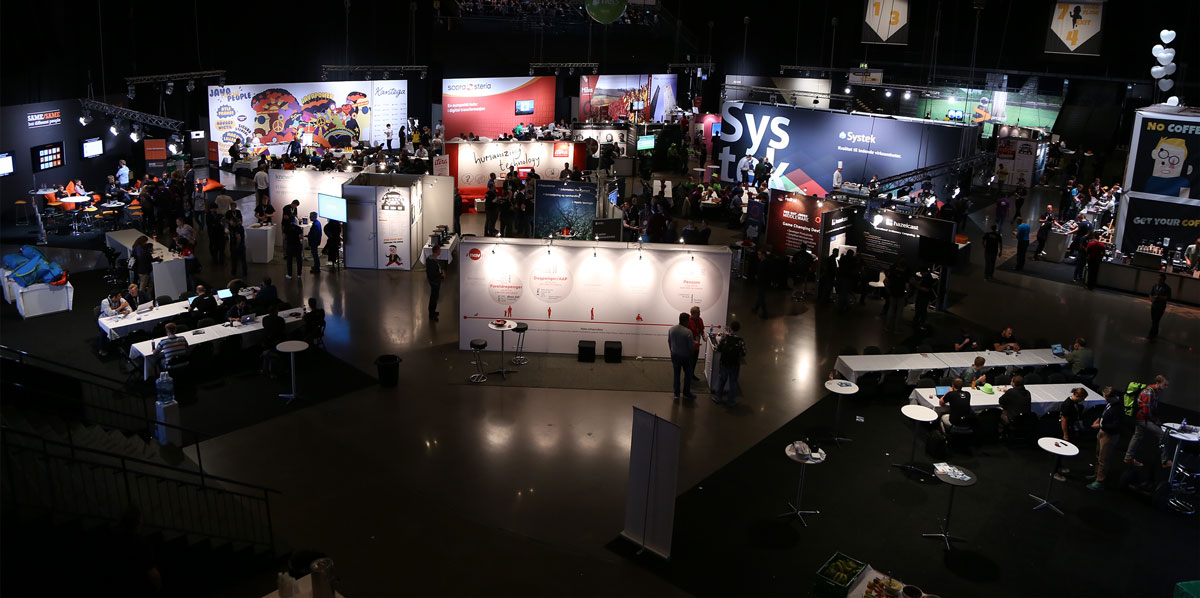
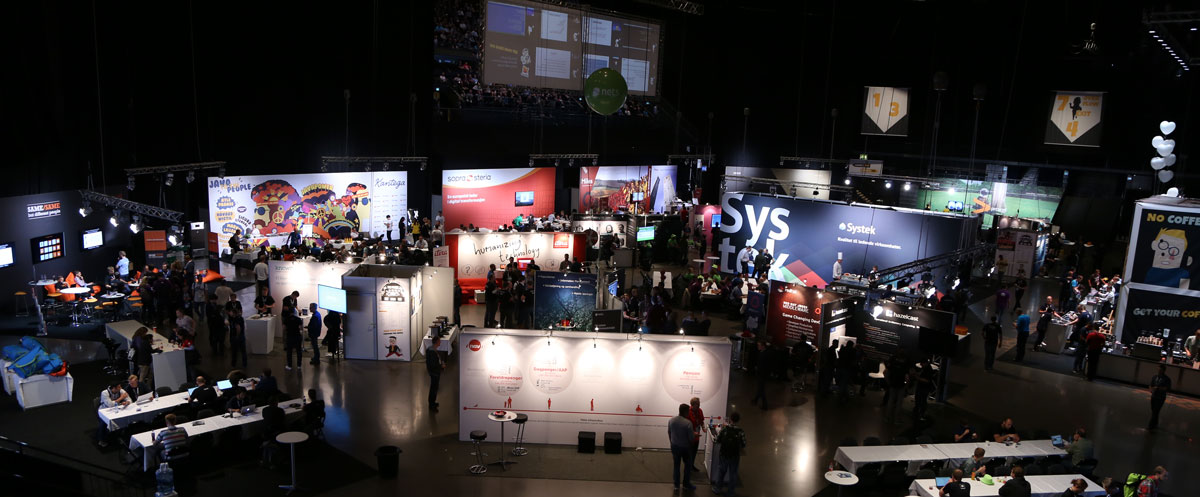
Use a bit more cheery header image

diff --git a/app/components/nav.js b/app/components/nav.js
@@ -1,6 +1,6 @@
 import logo from '../assets/logo_menu.svg';
 import {Link, IndexLink} from 'react-router';
-import header from '../assets/header_3.jpg';
+import header from '../assets/header_2.jpg';
 
 const image = `url('${header}')`;
 

diff --git a/app/styles/framework.less b/app/styles/framework.less
@@ -50,7 +50,7 @@
 
     &__navigation {
         @media (min-width: @size-xl) {
-            height: 598px;
+            height: 497px;
         }
     }
 
